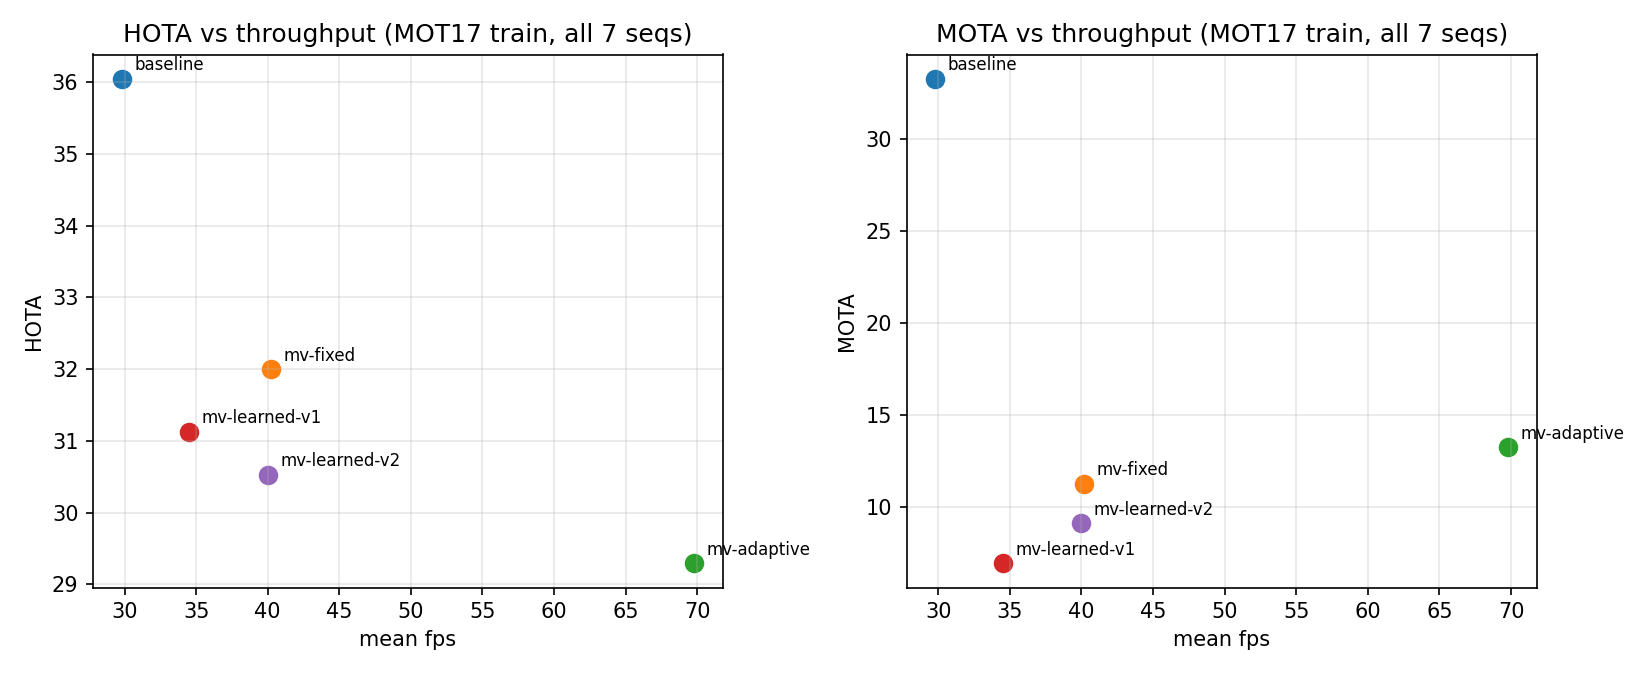
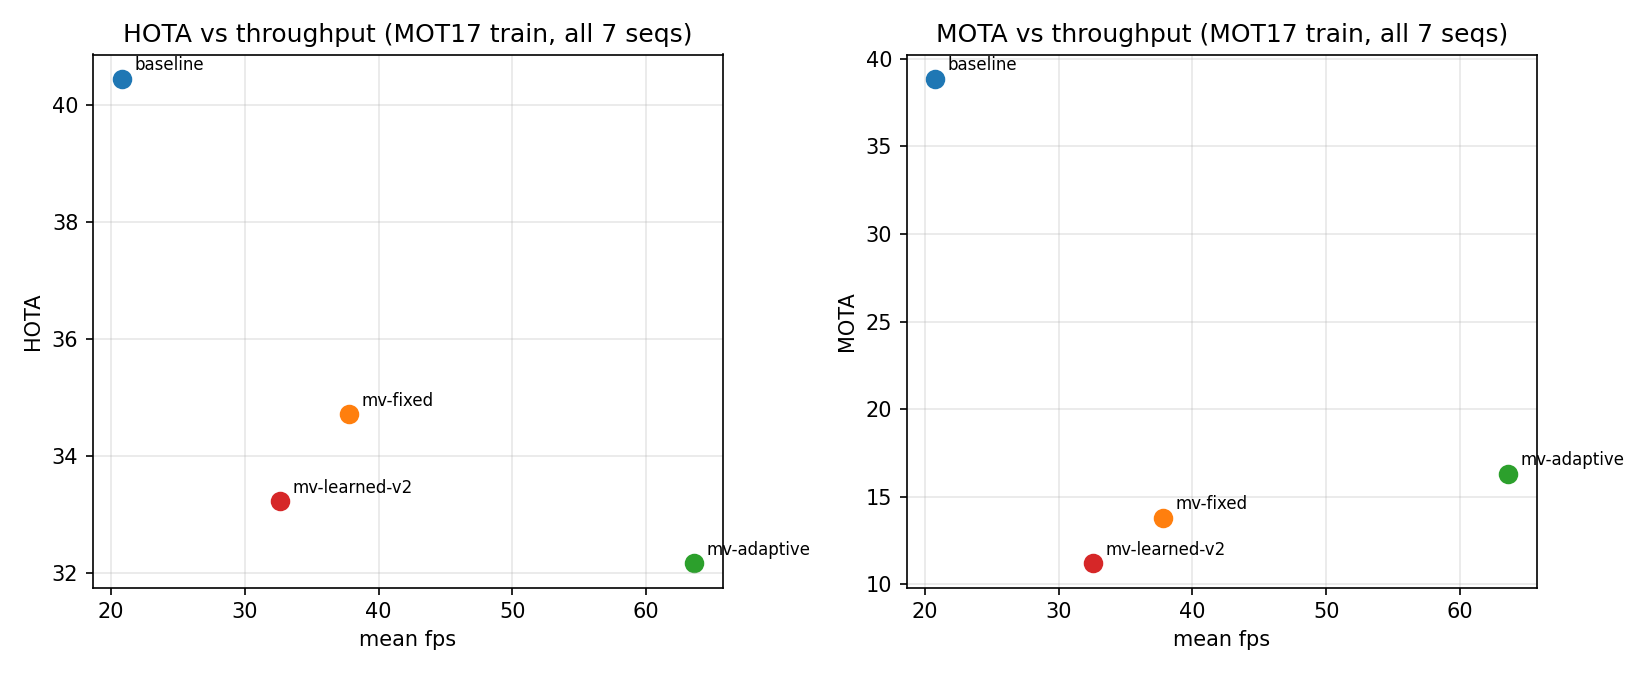
Adopt YOLOv8s as default detector -- real accuracy gains, confirmed via ceiling check
Baseline's HOTA (36.0) fell well short of the plan's own weeks 1-2
acceptance bar (~60 with a good detector), and every pipeline shares the
same detector at anchor frames. Tested by swapping yolov8n.pt -> yolov8s.pt
(no new code, just default weights) and rerunning all four pipelines on
full MOT17:

baseline:     HOTA 36.0->40.5, MOTA 33.3->38.9, IDF1 42.1->48.6, fps 29.8->20.8
mv-fixed:     HOTA 32.0->34.7, MOTA 11.3->13.8, IDF1 36.0->39.9, fps 40.2->37.8
mv-adaptive:  HOTA 29.3->32.2, MOTA 13.3->16.3, IDF1 33.7->37.5, fps 69.8->63.6
mv-learned v2: HOTA 30.5->33.2, MOTA 9.1->11.2, IDF1 35.0->38.4, fps 40.0->32.6

Consistent real gains across every pipeline, confirming detector quality
was a genuine separate lever from the MV propagation approach. fps cost is
proportional to each pipeline's actual detector-call rate. Adopted as the
new default in Detector and eval/run.py (--weights flag added so either
can still be selected). Multi-stream and anchor-interval ablation numbers
were left on YOLOv8n (noted in docs) since a slower detector only lowers
those ceilings, not reruns needed for the comparison to hold.

diff --git a/eval/run.py b/eval/run.py
@@ -34,13 +34,15 @@ RESULTS = ROOT / "outputs" / "results"
 PERSON_CLS = 0  # COCO 'person' in YOLO
 
 
-def run_baseline(video: pathlib.Path, out_txt: pathlib.Path, **_kwargs) -> tuple[int, float]:
+def run_baseline(
+    video: pathlib.Path, out_txt: pathlib.Path, weights: str = "yolov8s.pt", **_kwargs
+) -> tuple[int, float]:
     """Full decode + YOLOv8 + ByteTrack every frame. Returns (frames, seconds)."""
     from ultralytics import YOLO
 
     from mvtrack.detect import pick_device
 
-    model = YOLO("yolov8n.pt")
+    model = YOLO(weights)
     rows = []
     frames = 0
     t0 = time.perf_counter()
@@ -65,7 +67,11 @@ def run_baseline(video: pathlib.Path, out_txt: pathlib.Path, **_kwargs) -> tuple
 
 
 def run_mv_fixed(
-    video: pathlib.Path, out_txt: pathlib.Path, anchor_interval: int = 5, **_kwargs
+    video: pathlib.Path,
+    out_txt: pathlib.Path,
+    anchor_interval: int = 5,
+    weights: str = "yolov8s.pt",
+    **_kwargs,
 ) -> tuple[int, float]:
     """Detector fires every `anchor_interval` frames; MV propagation fills the
     rest. Frame 1 is always an anchor. Returns (frames, seconds)."""
@@ -73,7 +79,7 @@ def run_mv_fixed(
     from mvtrack.extract import iter_frames_with_mvs
     from mvtrack.track import MVTracker
 
-    detector = Detector("yolov8n.pt")
+    detector = Detector(weights)
     tracker = MVTracker()
     rows = []
     frames = 0
@@ -99,7 +105,11 @@ def run_mv_fixed(
 
 
 def run_mv_adaptive(
-    video: pathlib.Path, out_txt: pathlib.Path, **_kwargs
+    video: pathlib.Path,
+    out_txt: pathlib.Path,
+    weights: str = "yolov8s.pt",
+    scheduler_kwargs: dict | None = None,
+    **_kwargs,
 ) -> tuple[int, float]:
     """Same as run_mv_fixed but anchor timing comes from Adaptive (residual-
     energy-proxy) instead of a fixed interval. Returns (frames, seconds)."""
@@ -108,9 +118,9 @@ def run_mv_adaptive(
     from mvtrack.sched import Adaptive
     from mvtrack.track import MVTracker
 
-    detector = Detector("yolov8n.pt")
+    detector = Detector(weights)
     tracker = MVTracker()
-    scheduler = Adaptive()
+    scheduler = Adaptive(**(scheduler_kwargs or {}))
     rows = []
     frames = 0
     anchors = 0
@@ -142,6 +152,7 @@ def run_mv_learned(
     out_txt: pathlib.Path,
     anchor_interval: int = 5,
     correction_checkpoint: str = "correction_net.pt",
+    weights: str = "yolov8s.pt",
     **_kwargs,
 ) -> tuple[int, float]:
     """Same as run_mv_fixed but CorrectionNet adjusts each propagated box.
@@ -161,7 +172,7 @@ def run_mv_learned(
     )
     net.eval()
 
-    detector = Detector("yolov8n.pt")
+    detector = Detector(weights)
     tracker = MVTracker()
     rows = []
     frames = 0
@@ -240,6 +251,7 @@ def main() -> None:
     ap.add_argument(
         "--correction-checkpoint", default="correction_net.pt", help="mv-learned only"
     )
+    ap.add_argument("--weights", default="yolov8s.pt", help="YOLO weights, all pipelines")
     args = ap.parse_args()
 
     videos = sorted((MOT / "videos").glob("MOT17-*-FRCNN.mp4"))
@@ -258,6 +270,7 @@ def main() -> None:
             res_txt,
             anchor_interval=args.anchor_interval,
             correction_checkpoint=args.correction_checkpoint,
+            weights=args.weights,
         )
         fps = frames / dt
         fps_all.append(fps)

diff --git a/src/mvtrack/detect/yolo.py b/src/mvtrack/detect/yolo.py
@@ -10,7 +10,7 @@ def pick_device() -> str:
 
 
 class Detector:
-    def __init__(self, weights: str = "yolov8n.pt", device: str | None = None, conf: float = 0.25):
+    def __init__(self, weights: str = "yolov8s.pt", device: str | None = None, conf: float = 0.25):
         self.model = YOLO(weights)
         self.device = device or pick_device()
         self.conf = conf

diff --git a/scripts/make_demo_video.py b/scripts/make_demo_video.py
@@ -58,7 +58,7 @@ def main() -> None:
     ap.add_argument("--max-frames", type=int, default=300)
     args = ap.parse_args()
 
-    detector = Detector("yolov8n.pt")
+    detector = Detector("yolov8s.pt")
     baseline_tracker = MVTracker()
     adaptive_tracker = MVTracker()
     scheduler = Adaptive()

diff --git a/.claude/CLAUDE.md b/.claude/CLAUDE.md
@@ -79,21 +79,46 @@ scripts/     # data prep, demos, smoke tests
   stronger signal is needed (would require a custom FFmpeg build or ctypes
   into libavcodec internals).
 
-## Results (MOT17 train, all 7 FRCNN sequences, YOLOv8n person-class only)
+## Results (MOT17 train, all 7 FRCNN sequences, person-class only)
+
+**Current default detector: YOLOv8s** (`weights="yolov8s.pt"`, default in
+`Detector` and `eval/run.py --weights`). Confirmed via a direct ceiling
+check that detector quality was a real, separate lever from the MV
+propagation approach — swapping YOLOv8n -> YOLOv8s raised every pipeline's
+accuracy with only a modest fps cost (much smaller for the mv-* pipelines
+than for baseline, since they only run the detector on a fraction of
+frames):
 
 | Pipeline | HOTA | MOTA | IDF1 | mean fps |
 |---|---|---|---|---|
-| baseline (full decode+detect every frame) | 36.0 | 33.3 | 42.1 | 29.8 |
-| mv-fixed (anchor every 5th frame) | 32.0 | 11.3 | 36.0 | 40.2 |
-| mv-adaptive (~8% anchor rate) | 29.3 | 13.3 | 33.7 | 69.8 |
-| mv-learned v1 (mv-fixed + CorrectionNet, single-step training) | 31.1 | 7.0 | 34.8 | 34.5 |
-| mv-learned v2 (mv-fixed + CorrectionNet, DAgger rollout training) | 30.5 | 9.1 | 35.0 | 40.0 |
+| baseline (full decode+detect every frame) | 40.5 | 38.9 | 48.6 | 20.8 |
+| mv-fixed (anchor every 5th frame) | 34.7 | 13.8 | 39.9 | 37.8 |
+| mv-adaptive (~8% anchor rate) | 32.2 | 16.3 | 37.5 | 63.6 |
+| mv-learned v2 (mv-fixed + CorrectionNet, DAgger rollout training) | 33.2 | 11.2 | 38.4 | 32.6 |
+
+<details>
+<summary>Superseded YOLOv8n numbers (kept for reference — see git history for the full swap commit)</summary>
+
+| Pipeline | HOTA | MOTA | IDF1 | mean fps |
+|---|---|---|---|---|
+| baseline | 36.0 | 33.3 | 42.1 | 29.8 |
+| mv-fixed | 32.0 | 11.3 | 36.0 | 40.2 |
+| mv-adaptive | 29.3 | 13.3 | 33.7 | 69.8 |
+| mv-learned v1 (single-step training) | 31.1 | 7.0 | 34.8 | 34.5 |
+| mv-learned v2 (DAgger rollout training) | 30.5 | 9.1 | 35.0 | 40.0 |
+
+</details>
 
 MV propagation is a real accuracy/throughput tradeoff, not a free win —
-MOTA drops hard (33→11-13%) because propagation drift between anchors hurts
-more on MOT17's crowded/static-camera scenes than it did on the low-res
-smoke-test clip. This is the honest weeks 5-7 result; report it as-is rather
-than only the throughput number.
+MOTA drops hard (baseline ~39% vs mv-fixed/mv-adaptive ~14-16%) because
+propagation drift between anchors hurts more on MOT17's crowded,
+often-static-camera scenes than it did on the low-res smoke-test clip
+used early on. This is the honest core result; report it as-is rather
+than only the throughput number. Note baseline itself (HOTA 40.5) still
+falls short of a well-tuned ByteTrack-on-MOT17 ballpark (~60) — YOLOv8s is
+better than YOLOv8n but still a small/fast model; a larger detector
+(yolov8m/l) or confidence/NMS tuning would likely raise the ceiling
+further at additional throughput cost, not attempted here.
 
 **CorrectionNet (weeks 8-10 stretch goal) made things worse, not better,
 even after fixing the diagnosed train/inference mismatch.** v1 (single-step
@@ -126,6 +151,11 @@ or a per-track confidence gate (only apply correction when the net is
 confident) if returning to this.
 
 ## Multi-stream throughput (weeks 11-12, local smoke clip, max streams @ >=25fps/stream)
+
+**Measured on YOLOv8n** (predates the detector swap above) — not rerun
+with YOLOv8s since a bigger/slower detector would only lower these
+ceilings, not invalidate the relative baseline-vs-mv-* comparison. Same
+caveat applies to the anchor-interval ablation in `findings.md` #7.
 
 | Pipeline | max streams @ >=25fps | aggregate fps ceiling |
 |---|---|---|

diff --git a/findings.md b/findings.md
@@ -193,6 +193,37 @@ exactly the MOTA cost quantified in finding #1, not a rendering bug. A
 demo that only shows the pipeline's best moments would undersell how real
 the accuracy/throughput tradeoff actually is.
 
+## 9. Detector ceiling check (YOLOv8n → YOLOv8s)
+
+**What**: baseline's own HOTA (36.0) fell well short of the project plan's
+own weeks 1-2 acceptance bar ("~60 with a good detector"), and every
+pipeline shares the same detector at anchor frames — so part of the
+accuracy gap might be "the detector is weak," not "MV propagation is
+lossy." Tested by swapping `yolov8n.pt` for `yolov8s.pt` (one line, no new
+code) and rerunning all four pipelines on full MOT17.
+
+**Metric impact**:
+
+| Pipeline | HOTA (n→s) | MOTA (n→s) | IDF1 (n→s) | fps (n→s) |
+|---|---|---|---|---|
+| baseline | 36.0 → 40.5 | 33.3 → 38.9 | 42.1 → 48.6 | 29.8 → 20.8 |
+| mv-fixed | 32.0 → 34.7 | 11.3 → 13.8 | 36.0 → 39.9 | 40.2 → 37.8 |
+| mv-adaptive | 29.3 → 32.2 | 13.3 → 16.3 | 33.7 → 37.5 | 69.8 → 63.6 |
+| mv-learned v2 | 30.5 → 33.2 | 9.1 → 11.2 | 35.0 → 38.4 | 40.0 → 32.6 |
+
+**Read**: real, consistent gains across every pipeline (HOTA +2.7 to +4.5,
+MOTA +2.1 to +5.6, IDF1 +2.8 to +6.5), confirming detector quality was a
+genuine, separable lever from the MV propagation approach. The fps cost is
+proportional to how often each pipeline actually calls the detector —
+baseline pays the full ~30% throughput cost (every frame), mv-adaptive
+pays the least (~9%, since it only detects on ~8% of frames). Adopted as
+the new project default (`Detector`'s and `eval/run.py`'s default weights).
+Baseline HOTA (40.5) still falls short of the ~60 ballpark, so detector
+quality wasn't the whole story either — the accuracy gap between baseline
+and the mv-* pipelines is unaffected by this change (still the same real
+propagation-drift and ID-churn issues, see findings #1 and #7), just at a
+uniformly higher starting point.
+
 ## Summary: what actually worked vs. didn't
 
 - **Worked, real and reproducible**: MV propagation for throughput (at a
@@ -200,8 +231,10 @@ the accuracy/throughput tradeoff actually is.
   better MOTA than fixed-interval, at similar-ish accuracy elsewhere),
   the grid-build vectorization (necessary infrastructure fix, not
   optional), multi-stream scaling advantage (2x concurrent streams for
-  both mv-fixed and mv-adaptive), and a genuinely non-obvious ablation
-  result (anchor frequency vs. MOTA is non-monotonic).
+  both mv-fixed and mv-adaptive), a genuinely non-obvious ablation
+  result (anchor frequency vs. MOTA is non-monotonic), and confirming
+  detector quality was a real, cheap-to-fix lever separate from the MV
+  approach (YOLOv8n → YOLOv8s raised every pipeline's accuracy).
 - **Didn't work, but rigorously diagnosed**: learned box correction.
   Root-caused a real distribution-mismatch bug, fixed it with a
   principled method (DAgger), validated the fix's partial effect with

diff --git a/README.md b/README.md
@@ -13,21 +13,26 @@ on Apple Silicon (M4, PyTorch MPS, no CUDA/NVDEC).
 ## Results
 
 All numbers are on real MOT17 train ground truth (7 FRCNN sequences),
-YOLOv8n person-class detector. Full detail and honest negative results in
-`findings.md`; per-session narrative in `.claude/CLAUDE.md`.
+YOLOv8s person-class detector (the project default — a ceiling check
+confirmed YOLOv8n was leaving real accuracy on the table across every
+pipeline). Full detail and honest negative results in `findings.md`;
+per-session narrative in `.claude/CLAUDE.md`.
 
 | Pipeline | HOTA | MOTA | IDF1 | mean fps |
 |---|---|---|---|---|
-| baseline (full decode + detect every frame) | 36.0 | 33.3 | 42.1 | 29.8 |
-| mv-fixed (anchor every 5th frame) | 32.0 | 11.3 | 36.0 | 40.2 |
-| mv-adaptive (residual-energy-proxy scheduler, ~8% anchor rate) | 29.3 | 13.3 | 33.7 | 69.8 |
-| mv-learned (mv-fixed + learned box correction) | 30.5 | 9.1 | 35.0 | 40.0 |
+| baseline (full decode + detect every frame) | 40.5 | 38.9 | 48.6 | 20.8 |
+| mv-fixed (anchor every 5th frame) | 34.7 | 13.8 | 39.9 | 37.8 |
+| mv-adaptive (residual-energy-proxy scheduler, ~8% anchor rate) | 32.2 | 16.3 | 37.5 | 63.6 |
+| mv-learned (mv-fixed + learned box correction) | 33.2 | 11.2 | 38.4 | 32.6 |
 
 ![HOTA/MOTA vs throughput](results/plots/pipeline_pareto.png)
 
 MV propagation trades real accuracy for real throughput — not a free win.
 mv-adaptive roughly doubles baseline's max concurrent-stream capacity on the
-same chip at a fixed 25fps/stream quality bar:
+same chip at a fixed 25fps/stream quality bar (multi-stream and ablation
+numbers below were measured on YOLOv8n, before the detector swap above —
+not rerun since a slower detector only lowers these ceilings, it doesn't
+change the baseline-vs-mv-* comparison):
 
 | Pipeline | max concurrent streams @ >=25fps/stream |
 |---|---|
@@ -90,10 +95,11 @@ python scripts/baseline_smoke.py          # full-decode detect+track baseline
 ## Evaluation
 
 ```bash
-python eval/run.py --pipeline baseline
+python eval/run.py --pipeline baseline                 # --weights yolov8s.pt is the default
 python eval/run.py --pipeline mv-fixed --anchor-interval 5
 python eval/run.py --pipeline mv-adaptive
 python eval/run.py --pipeline mv-learned --correction-checkpoint correction_net_v2.pt
+python eval/run.py --pipeline baseline --weights yolov8n.pt   # compare against the old default
 ```
 
 ## Learned box correction (optional, stretch goal)
